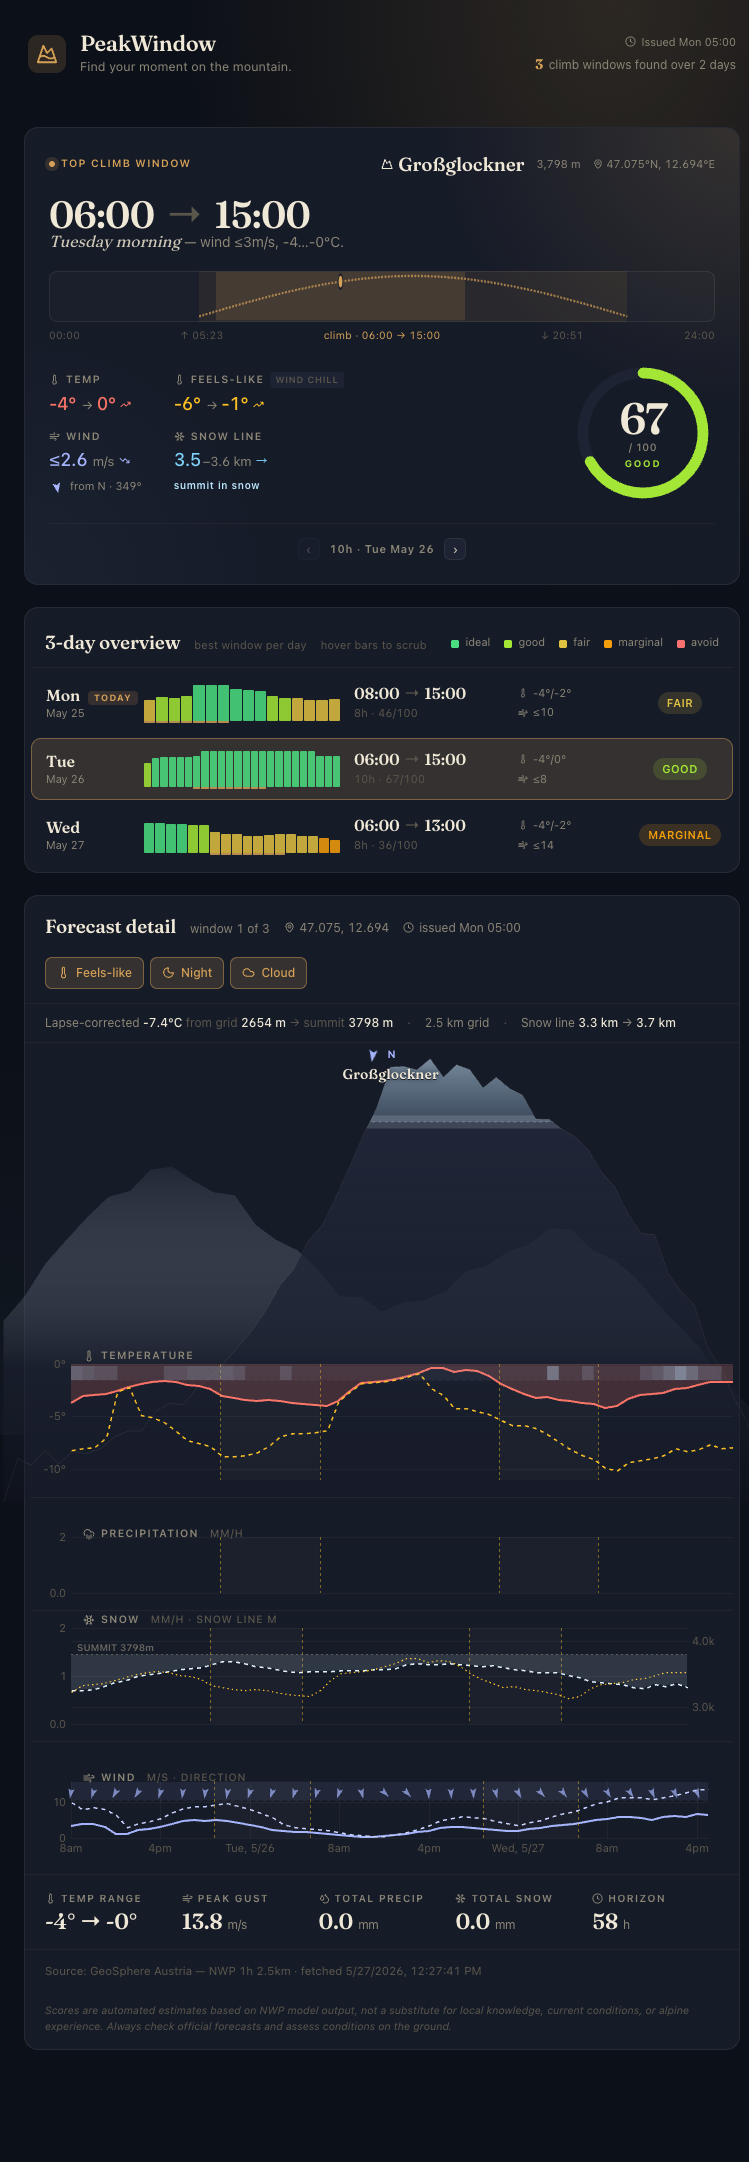
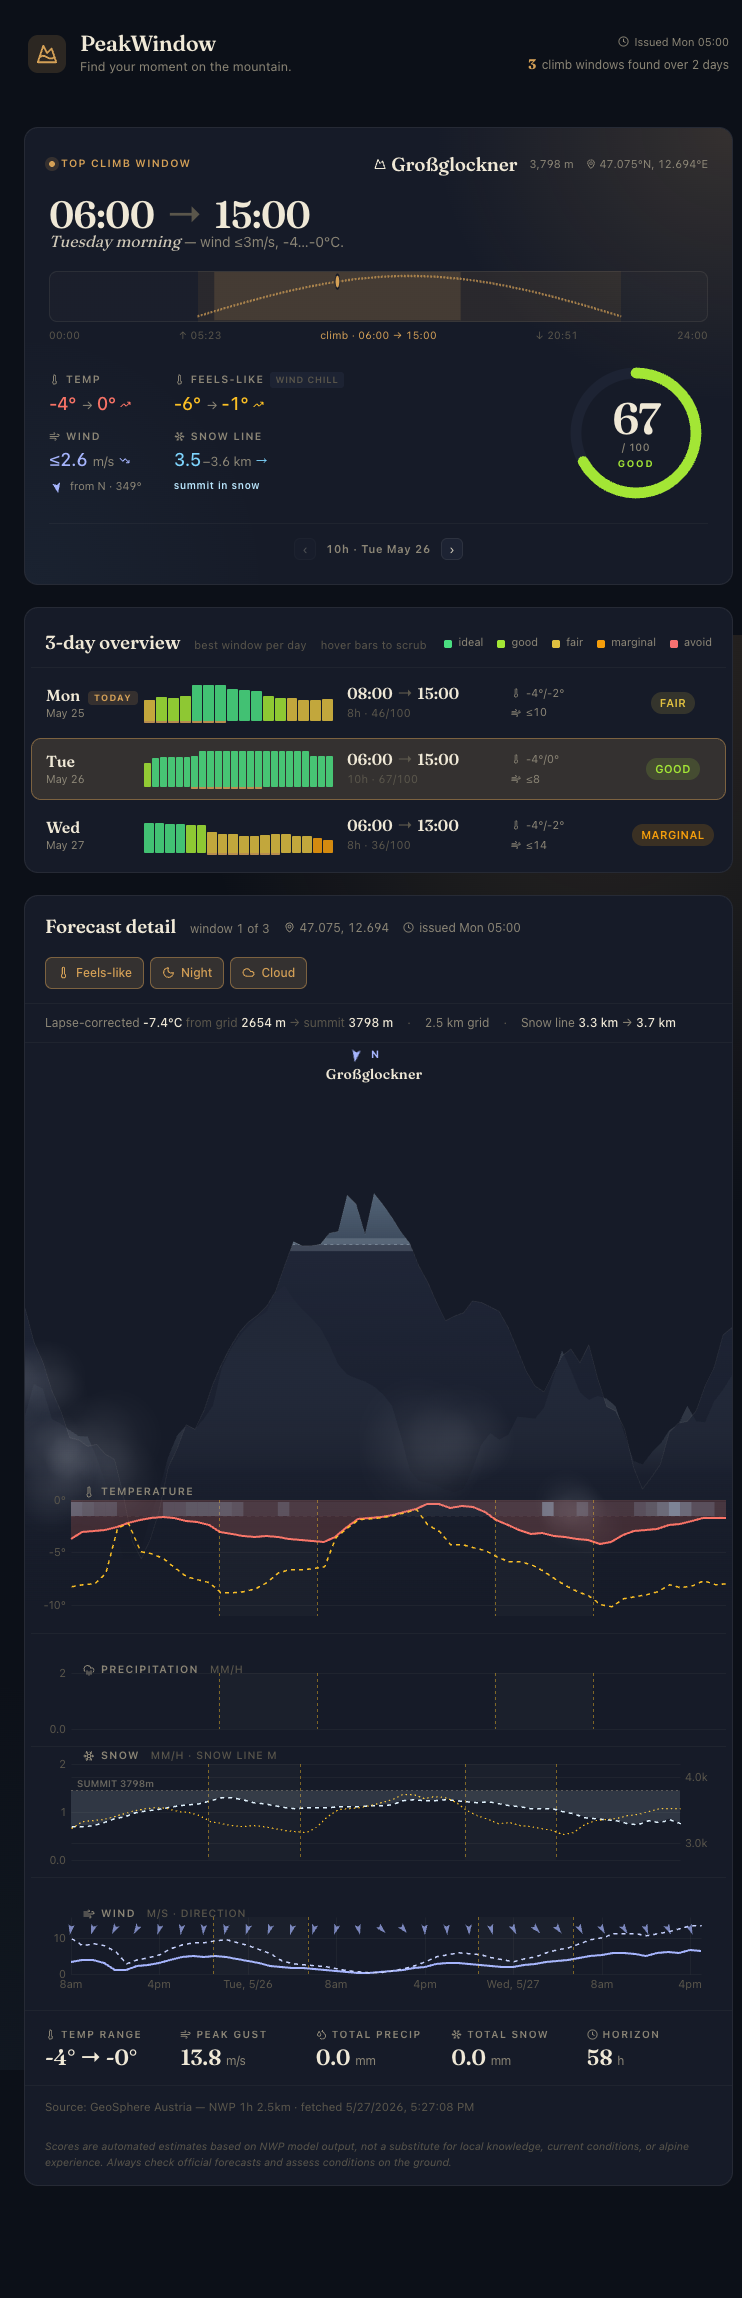
Real Großglockner DEM silhouette, cloud positioning, layout fixes
- Replace procedural ridge with real elevation data from Open-Meteo
  Elevation API: skyline envelope (max across 7 lat rows) for front
  ridge, separate profile 2km north for back ridge
- Position cloud puffs at realistic alpine elevation (mid-slopes)
- Clip mountain to forecast card bounds (overflow: hidden on body)
- Increase mountain canvas height for more sky above peak

diff --git a/src/ventusky.tsx b/src/ventusky.tsx
@@ -448,10 +448,31 @@ function windPanel(p: VentuskyPayload, sun: SunEvent[], showNight: () => boolean
 const COMPASS = ["N","NNE","NE","ENE","E","ESE","SE","SSE","S","SSW","SW","WSW","W","WNW","NW","NNW"];
 const mtnCompass = (deg: number) => COMPASS[Math.round(((deg % 360 + 360) % 360) / 22.5) % 16];
 
-const seededRand = (i: number) => {
-  const x = Math.sin(i * 12.9898 + 3.7) * 43758.5453;
-  return x - Math.floor(x);
-};
+// Skyline envelope: max elevation across 7 latitude rows through Großglockner massif.
+// 80 columns W→E, ~14km span. Source: Open-Meteo Elevation API (Copernicus DEM 90m).
+const GK_PROFILE = [
+  0.6865, 0.5928, 0.5381, 0.4601, 0.4042, 0.3309, 0.3249, 0.3075, 0.3129, 0.2853,
+  0.2721, 0.1730, 0.0468, 0.0000, 0.0529, 0.1315, 0.2492, 0.3015, 0.3664, 0.3544,
+  0.4060, 0.4781, 0.5351, 0.5814, 0.6216, 0.6486, 0.6667, 0.6913, 0.7321, 0.8018,
+  0.8679, 0.8565, 0.8571, 0.8607, 0.8913, 0.8961, 0.9952, 0.9706, 0.8883, 1.0000,
+  0.9694, 0.9345, 0.8949, 0.8631, 0.8018, 0.7574, 0.7009, 0.6517, 0.6643, 0.6733,
+  0.7057, 0.7015, 0.6901, 0.6763, 0.6330, 0.5742, 0.5135, 0.4727, 0.4565, 0.5063,
+  0.5550, 0.5742, 0.5369, 0.5856, 0.4931, 0.4162, 0.4042, 0.3556, 0.2498, 0.1904,
+  0.2228, 0.2583, 0.3459, 0.3712, 0.3760, 0.4054, 0.4733, 0.5231, 0.6126, 0.6330,
+];
+const GK_PEAK_IDX = 39;
+
+// Back ridge: real elevation at 47.093°N (~2km north), same longitude span.
+const GK_BACK_PROFILE = [
+  0.4444, 0.5423, 0.5273, 0.4336, 0.4186, 0.3988, 0.3808, 0.3790, 0.3147, 0.2342,
+  0.1093, 0.0000, 0.0000, 0.0288, 0.1285, 0.2126, 0.3153, 0.3826, 0.4120, 0.4024,
+  0.4348, 0.4745, 0.5934, 0.6498, 0.6913, 0.7219, 0.7483, 0.7664, 0.8258, 0.8468,
+  0.8048, 0.7730, 0.7459, 0.7153, 0.6643, 0.6030, 0.5712, 0.5598, 0.5495, 0.5339,
+  0.5105, 0.4745, 0.3814, 0.2739, 0.2408, 0.2342, 0.2264, 0.2138, 0.2060, 0.2168,
+  0.2763, 0.3544, 0.3892, 0.3694, 0.3844, 0.4408, 0.4378, 0.4342, 0.4685, 0.5556,
+  0.6468, 0.5850, 0.5165, 0.4925, 0.5051, 0.4967, 0.4727, 0.3862, 0.3033, 0.2925,
+  0.3285, 0.3568, 0.3988, 0.4162, 0.4745, 0.4264, 0.4234, 0.4883, 0.5243, 0.5694,
+];
 
 // ── Animated cloud layer for mountain backdrop ─────────────
 interface CloudBlob {
@@ -493,7 +514,7 @@ function CloudLayer({ tcc, windSpeed }: { tcc: number; windSpeed: number }) {
     for (let i = 0; i < count; i++) {
       blobs.push({
         x: Math.random() * 1.4 - 0.2,
-        y: 0.04 + Math.random() * 0.34,
+        y: 0.25 + Math.random() * 0.25,
         r: 0.045 + Math.random() * 0.045,
         baseAlpha: 0.10 + frac * (0.14 + Math.random() * 0.10),
         speed: 0.5 + Math.random() * 0.8,
@@ -579,34 +600,21 @@ function MountainBackdrop({ payload, cursorIdx }: { payload: VentuskyPayload; cu
   const tcc = (payload.series.tcc[idx] ?? 0) as number;
   const windSpeed = (payload.series.ff[idx] ?? 0) as number;
 
-  const W = 1000, H = 760;
-  const peakX = 512;
-  const peakY = 22;
-  const baseY = 380;
+  const W = 1000, H = 900;
+  const peakY = 140;
+  const baseY = 480;
 
   const ridgePts = useMemo(() => {
     const pts: [number, number][] = [];
     pts.push([-30, baseY + 40]);
-    const leftN = 28;
-    for (let i = 1; i < leftN; i++) {
-      const t = i / leftN;
-      const x = -30 + (peakX - (-30)) * t;
-      const targetY = baseY + (peakY - baseY) * Math.pow(t, 2.55);
-      const jag = (seededRand(i * 7.31) - 0.5) * 26 * (1 - 0.55 * t);
-      pts.push([x, targetY + jag]);
-    }
-    pts.push([peakX, peakY]);
-    const rightN = 28;
-    for (let i = 1; i <= rightN; i++) {
-      const t = i / rightN;
-      const x = peakX + ((W + 30) - peakX) * t;
-      const targetY = peakY + (baseY - peakY) * Math.pow(t, 2.35);
-      const jag = (seededRand(i * 11.71 + 100) - 0.5) * 30 * (1 - 0.55 * t);
-      pts.push([x, targetY + jag]);
+    for (let i = 0; i < GK_PROFILE.length; i++) {
+      const x = (i / (GK_PROFILE.length - 1)) * W;
+      const y = baseY - GK_PROFILE[i] * (baseY - peakY);
+      pts.push([x, y]);
     }
     pts.push([W + 30, baseY + 40]);
     return pts;
-  }, [summit]);
+  }, []);
 
   const ridgePath = `M ${ridgePts[0][0]},${ridgePts[0][1]} ` +
     ridgePts.slice(1).map(([x, y]) => `L ${x.toFixed(1)},${y.toFixed(1)}`).join(" ");
@@ -614,15 +622,10 @@ function MountainBackdrop({ payload, cursorIdx }: { payload: VentuskyPayload; cu
   const backRidgePts = useMemo(() => {
     const pts: [number, number][] = [];
     pts.push([-30, baseY + 40]);
-    for (let i = 0; i <= 36; i++) {
-      const t = i / 36;
-      const x = -30 + ((W + 30) - (-30)) * t;
-      const y =
-        baseY -
-        260 * Math.exp(-Math.pow((t - 0.22) * 3.8, 2)) -
-        200 * Math.exp(-Math.pow((t - 0.74) * 4.8, 2));
-      const jag = (seededRand(i * 4.13 + 50) - 0.5) * 14;
-      pts.push([x, y + jag]);
+    for (let i = 0; i < GK_BACK_PROFILE.length; i++) {
+      const x = (i / (GK_BACK_PROFILE.length - 1)) * W;
+      const y = baseY - GK_BACK_PROFILE[i] * (baseY - peakY - 40);
+      pts.push([x, y]);
     }
     pts.push([W + 30, baseY + 40]);
     return pts;
@@ -685,7 +688,7 @@ function MountainBackdrop({ payload, cursorIdx }: { payload: VentuskyPayload; cu
 
       <CloudLayer tcc={tcc} windSpeed={windSpeed} />
 
-      <div className={styles.mtnPeakZone} style={{ left: "51.2%" }}>
+      <div className={styles.mtnPeakZone} style={{ left: `${(GK_PEAK_IDX / (GK_PROFILE.length - 1)) * 100}%` }}>
         <div className={styles.mtnPeakWind}>
           {windDeg != null && (
             <div

diff --git a/src/ventusky.module.css b/src/ventusky.module.css
@@ -69,13 +69,13 @@
 
 .forecastBody {
   display: block;
+  overflow: hidden;
 }
 
 .panels {
-  padding: 4px 6px 0;
+  padding: 440px 6px 0;
   position: relative;
   min-width: 0;
-  margin-top: 300px;
   overflow: visible;
 }
 .panel {
@@ -88,7 +88,7 @@
 /* ── Mountain backdrop ───────────────────────────────────── */
 .mtnBackdrop {
   position: absolute;
-  top: -300px;
+  top: 0;
   left: 0;
   right: 0;
   bottom: 0;

diff --git a/src/mcp-app.module.css b/src/mcp-app.module.css
@@ -17,7 +17,6 @@
   border-radius: 14px;
   box-shadow: var(--shadow-1), var(--shadow-2);
   position: relative;
-  overflow: visible;
 }
 
 .empty, .loading, .error {
